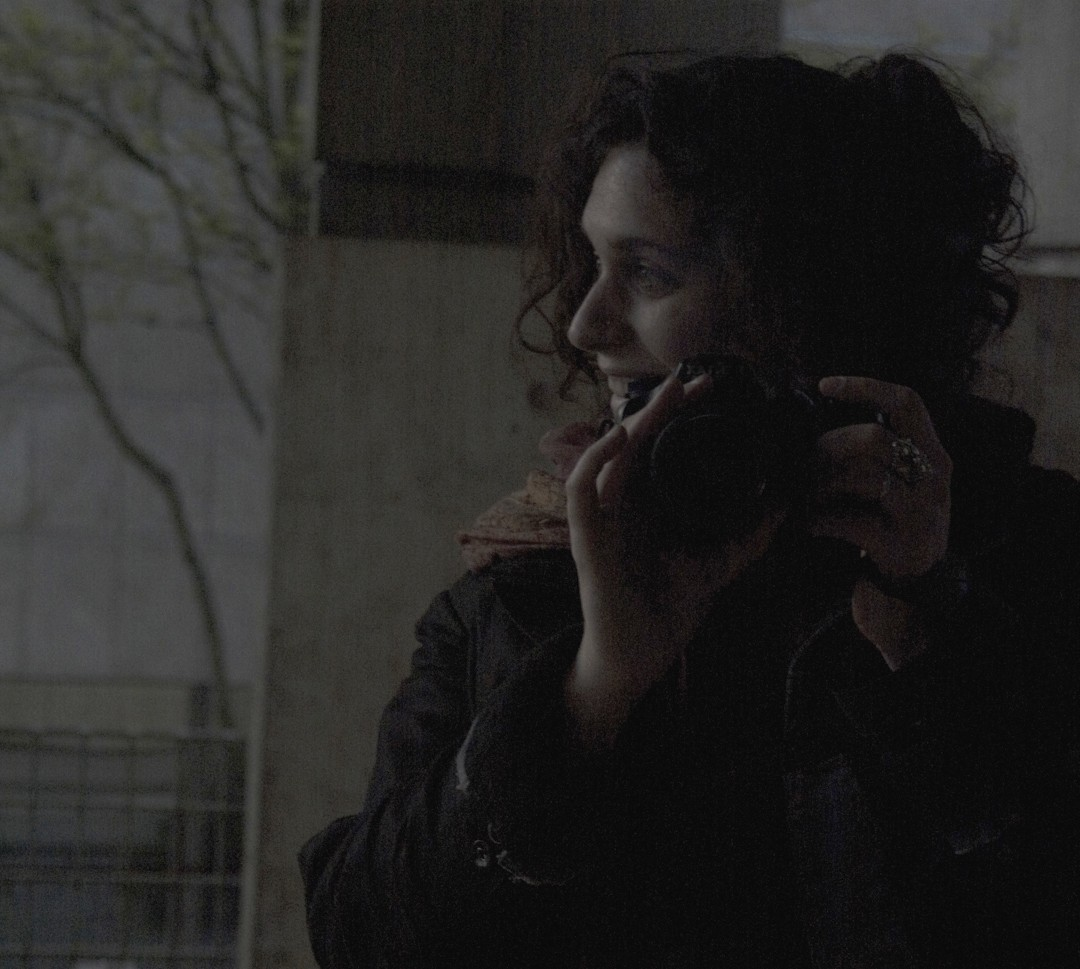
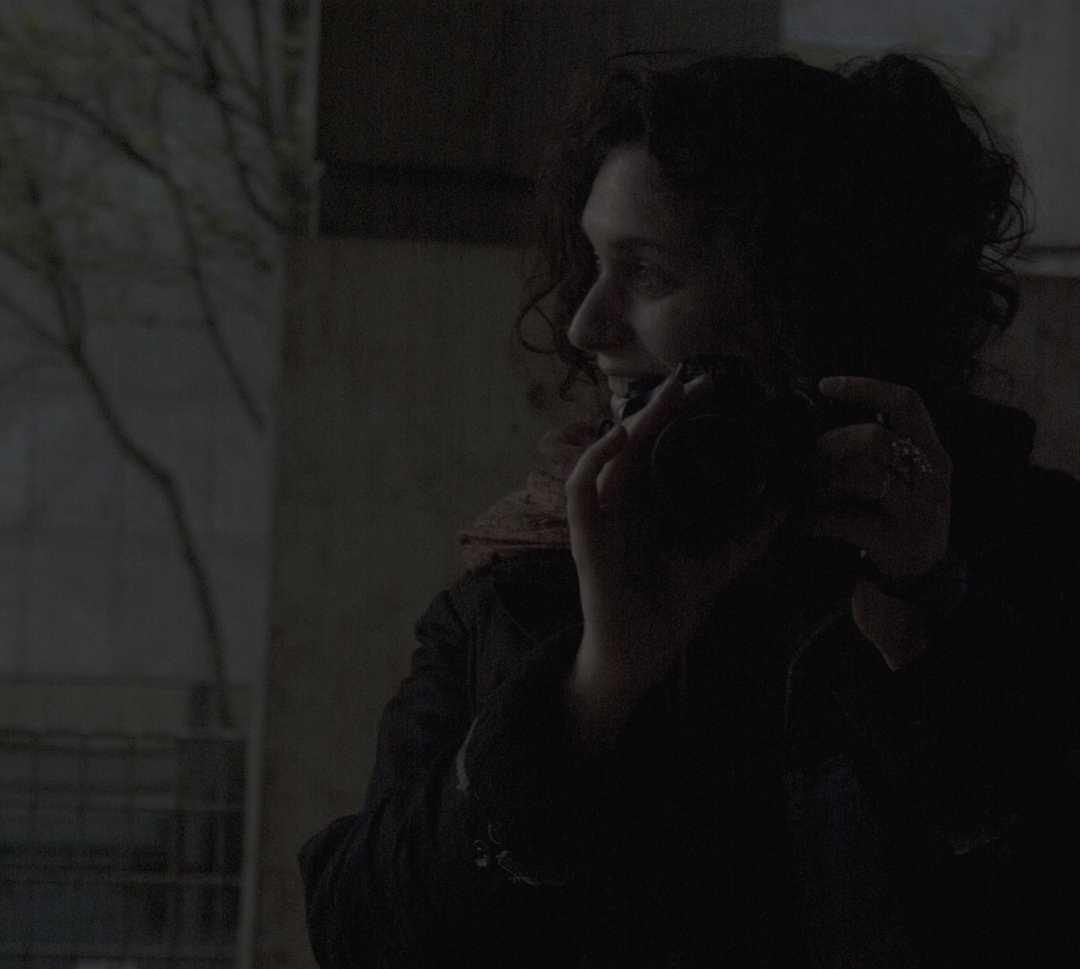
positions of img and picture darkened

diff --git a/web/css/main.css b/web/css/main.css
@@ -210,20 +210,19 @@ img {
 		display: none;
 	}
 	#about img {
-		min-width: 35%;
+		min-width: 20%;
 	}
 }
 
 /*----------//////////----------ABOUT PAGE----------//////////----------*/
 #about {
 	margin: 10px;
-	max-width: 100%;
+	width: 100%;
 }
 
 #about img {
-	max-width: 20%;
-	float: left;
-	margin: 5px;
+	min-width: 9%;
+	max-width: 13%;
 	padding: 3px;
 	border: 2px solid gray;
 }
@@ -241,3 +240,25 @@ img {
 }
 .events {}
 .event_details {}
+
+/*----------//////////----------CONTACT PAGE----------//////////----------*/
+#contact {
+	/* vertical align */
+	margin-top: 40vh; /* poussé de la moitié de hauteur de viewport */
+  	transform: translateY(-50%); /* tiré de la moitié de sa propre hauteur */
+  	/* horizontal align */
+  	width: 50%;
+  	margin-left: auto;
+  	margin-right: auto;
+}
+
+#contact img {
+	max-width: 30%;	
+	margin: 5px;
+	padding: 3px;
+	border: 2px solid gray;
+}
+
+#contact_infos {
+	margin-left: 5px;
+}
